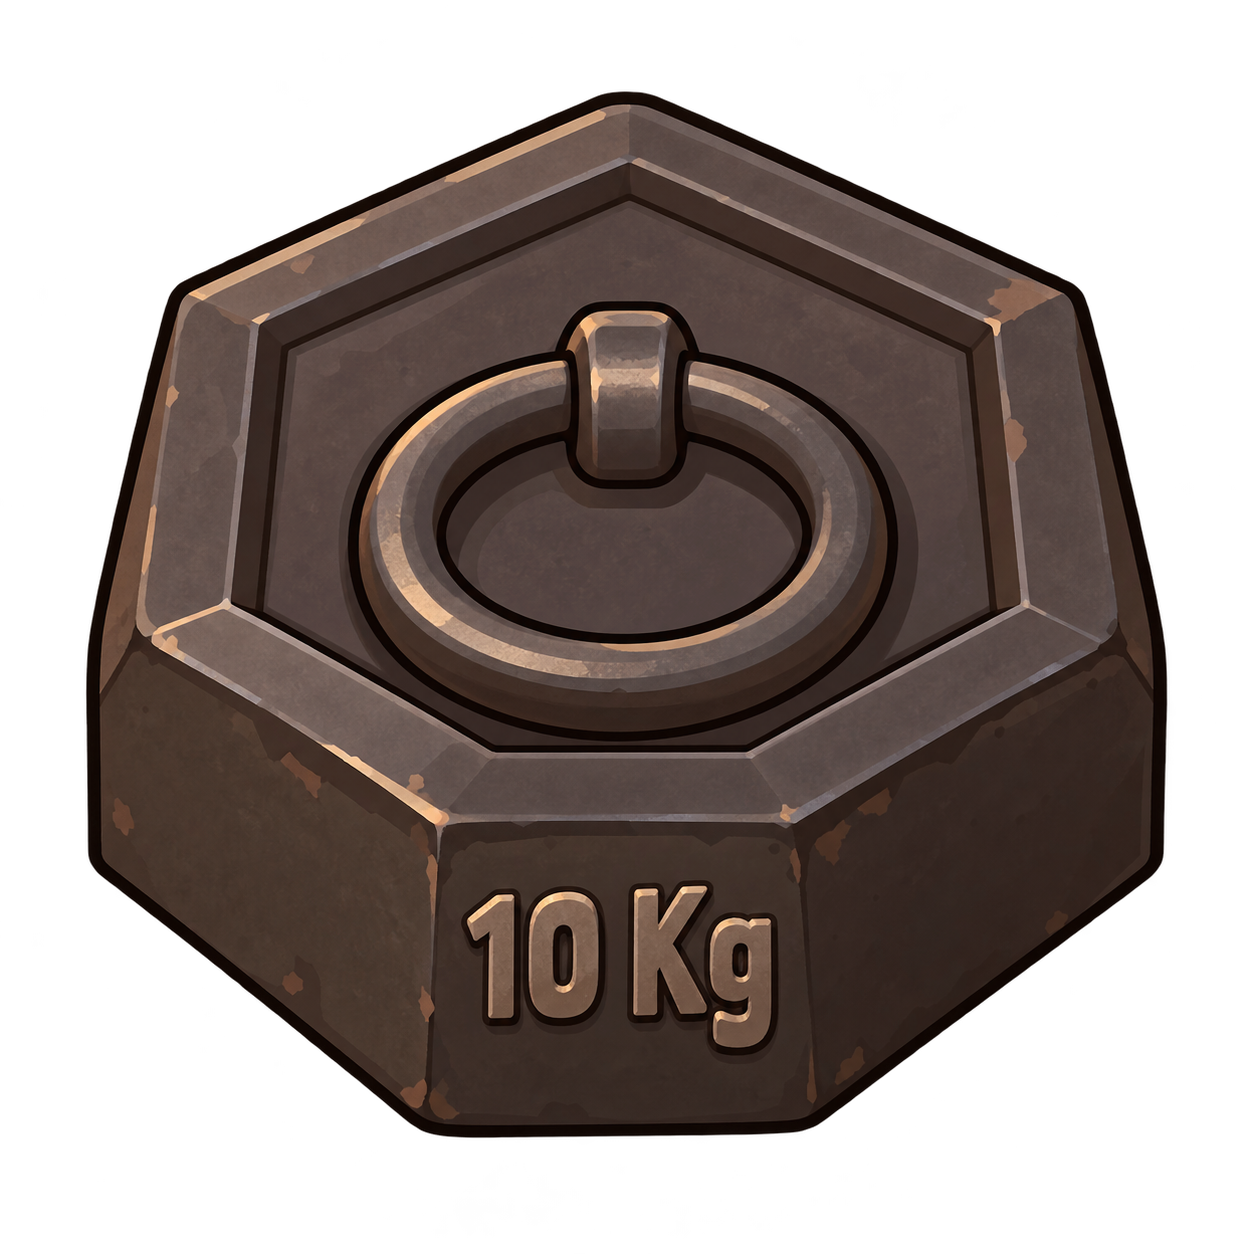
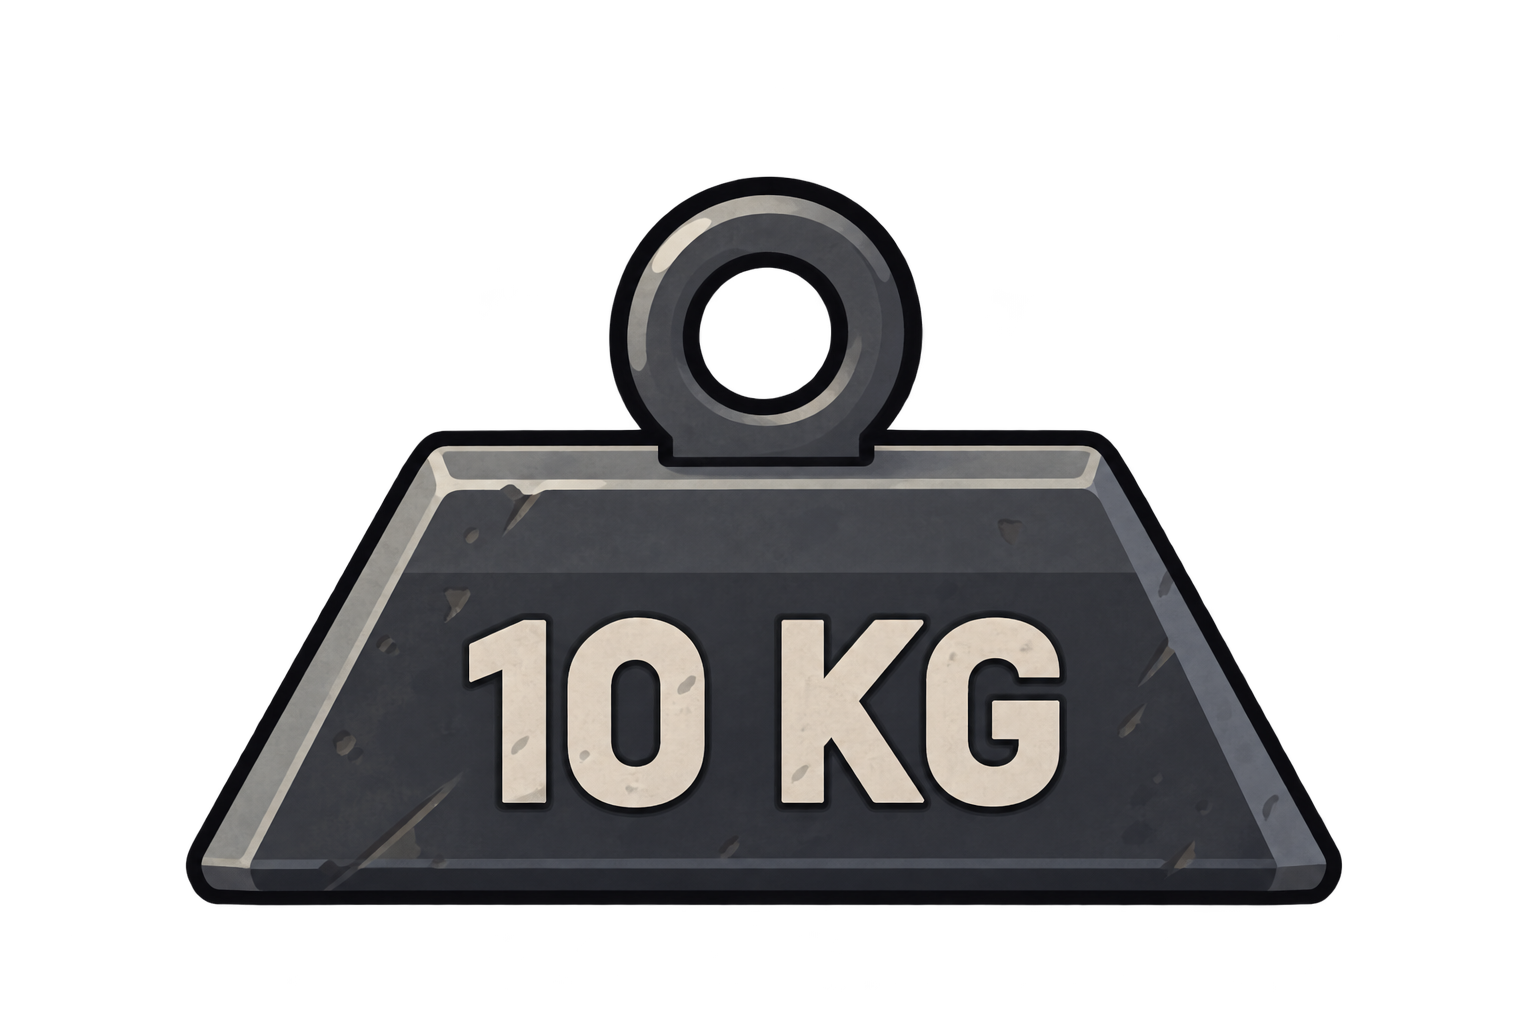
new assets

diff --git a/art/assets/fan/README.md b/art/assets/fan/README.md
@@ -1,0 +1,45 @@
+# Animation du ventilateur
+
+Le ventilateur est composé de deux éléments séparés :
+
+- le corps fixe ;
+- les pales, animées indépendamment.
+
+## Orientation visuelle
+
+L’asset est légèrement vu de biais afin que la direction du souffle reste lisible dans un environnement 2D.
+
+Les pales peuvent rester dessinées de face puis être légèrement déformées au rendu, par exemple avec une compression horizontale (`scaleX`) pour donner l’impression qu’elles sont inscrites dans un plan incliné.
+
+L’effet doit rester subtil : l’objectif est surtout d’éviter l’impression d’un ventilateur qui souffle vers la caméra.
+
+## Rotation des pales
+
+Les pales peuvent tourner autour de leur centre avec une animation continue et linéaire.
+
+Points à surveiller :
+
+- conserver un `transform-origin` parfaitement centré ;
+- éviter les variations de vitesse involontaires ;
+- maintenir la même déformation de perspective pendant toute la rotation ;
+- ajuster la vitesse selon l’état du ventilateur.
+
+Une rotation rapide, de l’ordre de quelques dixièmes de seconde par tour, devrait donner un bon point de départ.
+
+## Composition des calques
+
+Le calque des pales peut être placé légèrement en retrait dans l’ouverture du ventilateur.
+
+Selon le rendu obtenu, un petit décalage horizontal ou une légère réduction d’échelle peut aider à donner l’impression qu’elles sont réellement logées dans le cylindre.
+
+Le bord avant du corps peut éventuellement masquer légèrement les pales, ce qui renforcera naturellement la sensation de profondeur.
+
+## États possibles
+
+L’animation peut rester très simple :
+
+- **arrêté** : pales immobiles ;
+- **actif** : rotation continue ;
+- éventuellement une courte accélération/décélération lors des changements d’état.
+
+Il n’est pas nécessaire d’ajouter un effet de vent directement dans l’asset : le souffle peut être représenté séparément par le moteur du jeu si besoin.

diff --git a/art/assets/springboard/README.md b/art/assets/springboard/README.md
@@ -1,0 +1,1 @@
+Pour animer, faire un scale sur le spring
